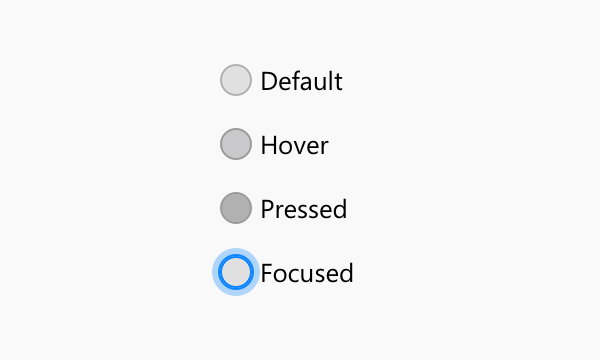
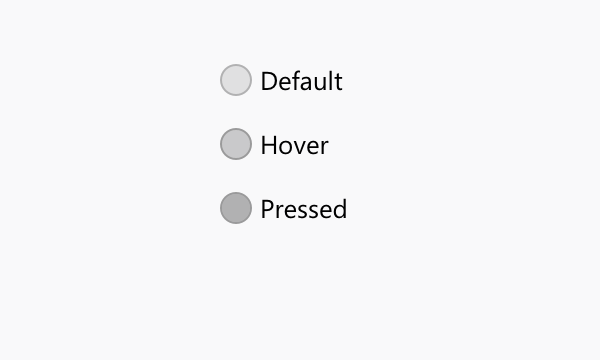
Deploy 82db3bd4ce53...2ecda7661cab to GitHub Pages.

Changed region(s): [[0.33, 0.6722, 0.6, 0.825]]

diff --git a/contents/components/radio-buttons.html b/contents/components/radio-buttons.html
@@ -194,8 +194,7 @@
       <p class="mb2">Hover: 20% Grey 90 <code>#0c0c0d</code></p>
       <p class="mb2">Pressed: 30% Grey 90 <code>#0c0c0d</code></p>
       <h5 class="mb2">Focused:</h5>
-      <p class="mb2">Border: none</p>
-      <p class="mb2">Box Shadow: 1px inset Blue 50, 1px Blue 50, 4px 30% Blue 50</p>
+      <p class="mb2">Unselected radio buttons can not be focused.</p>
     </div>
   </div>
 </section>
